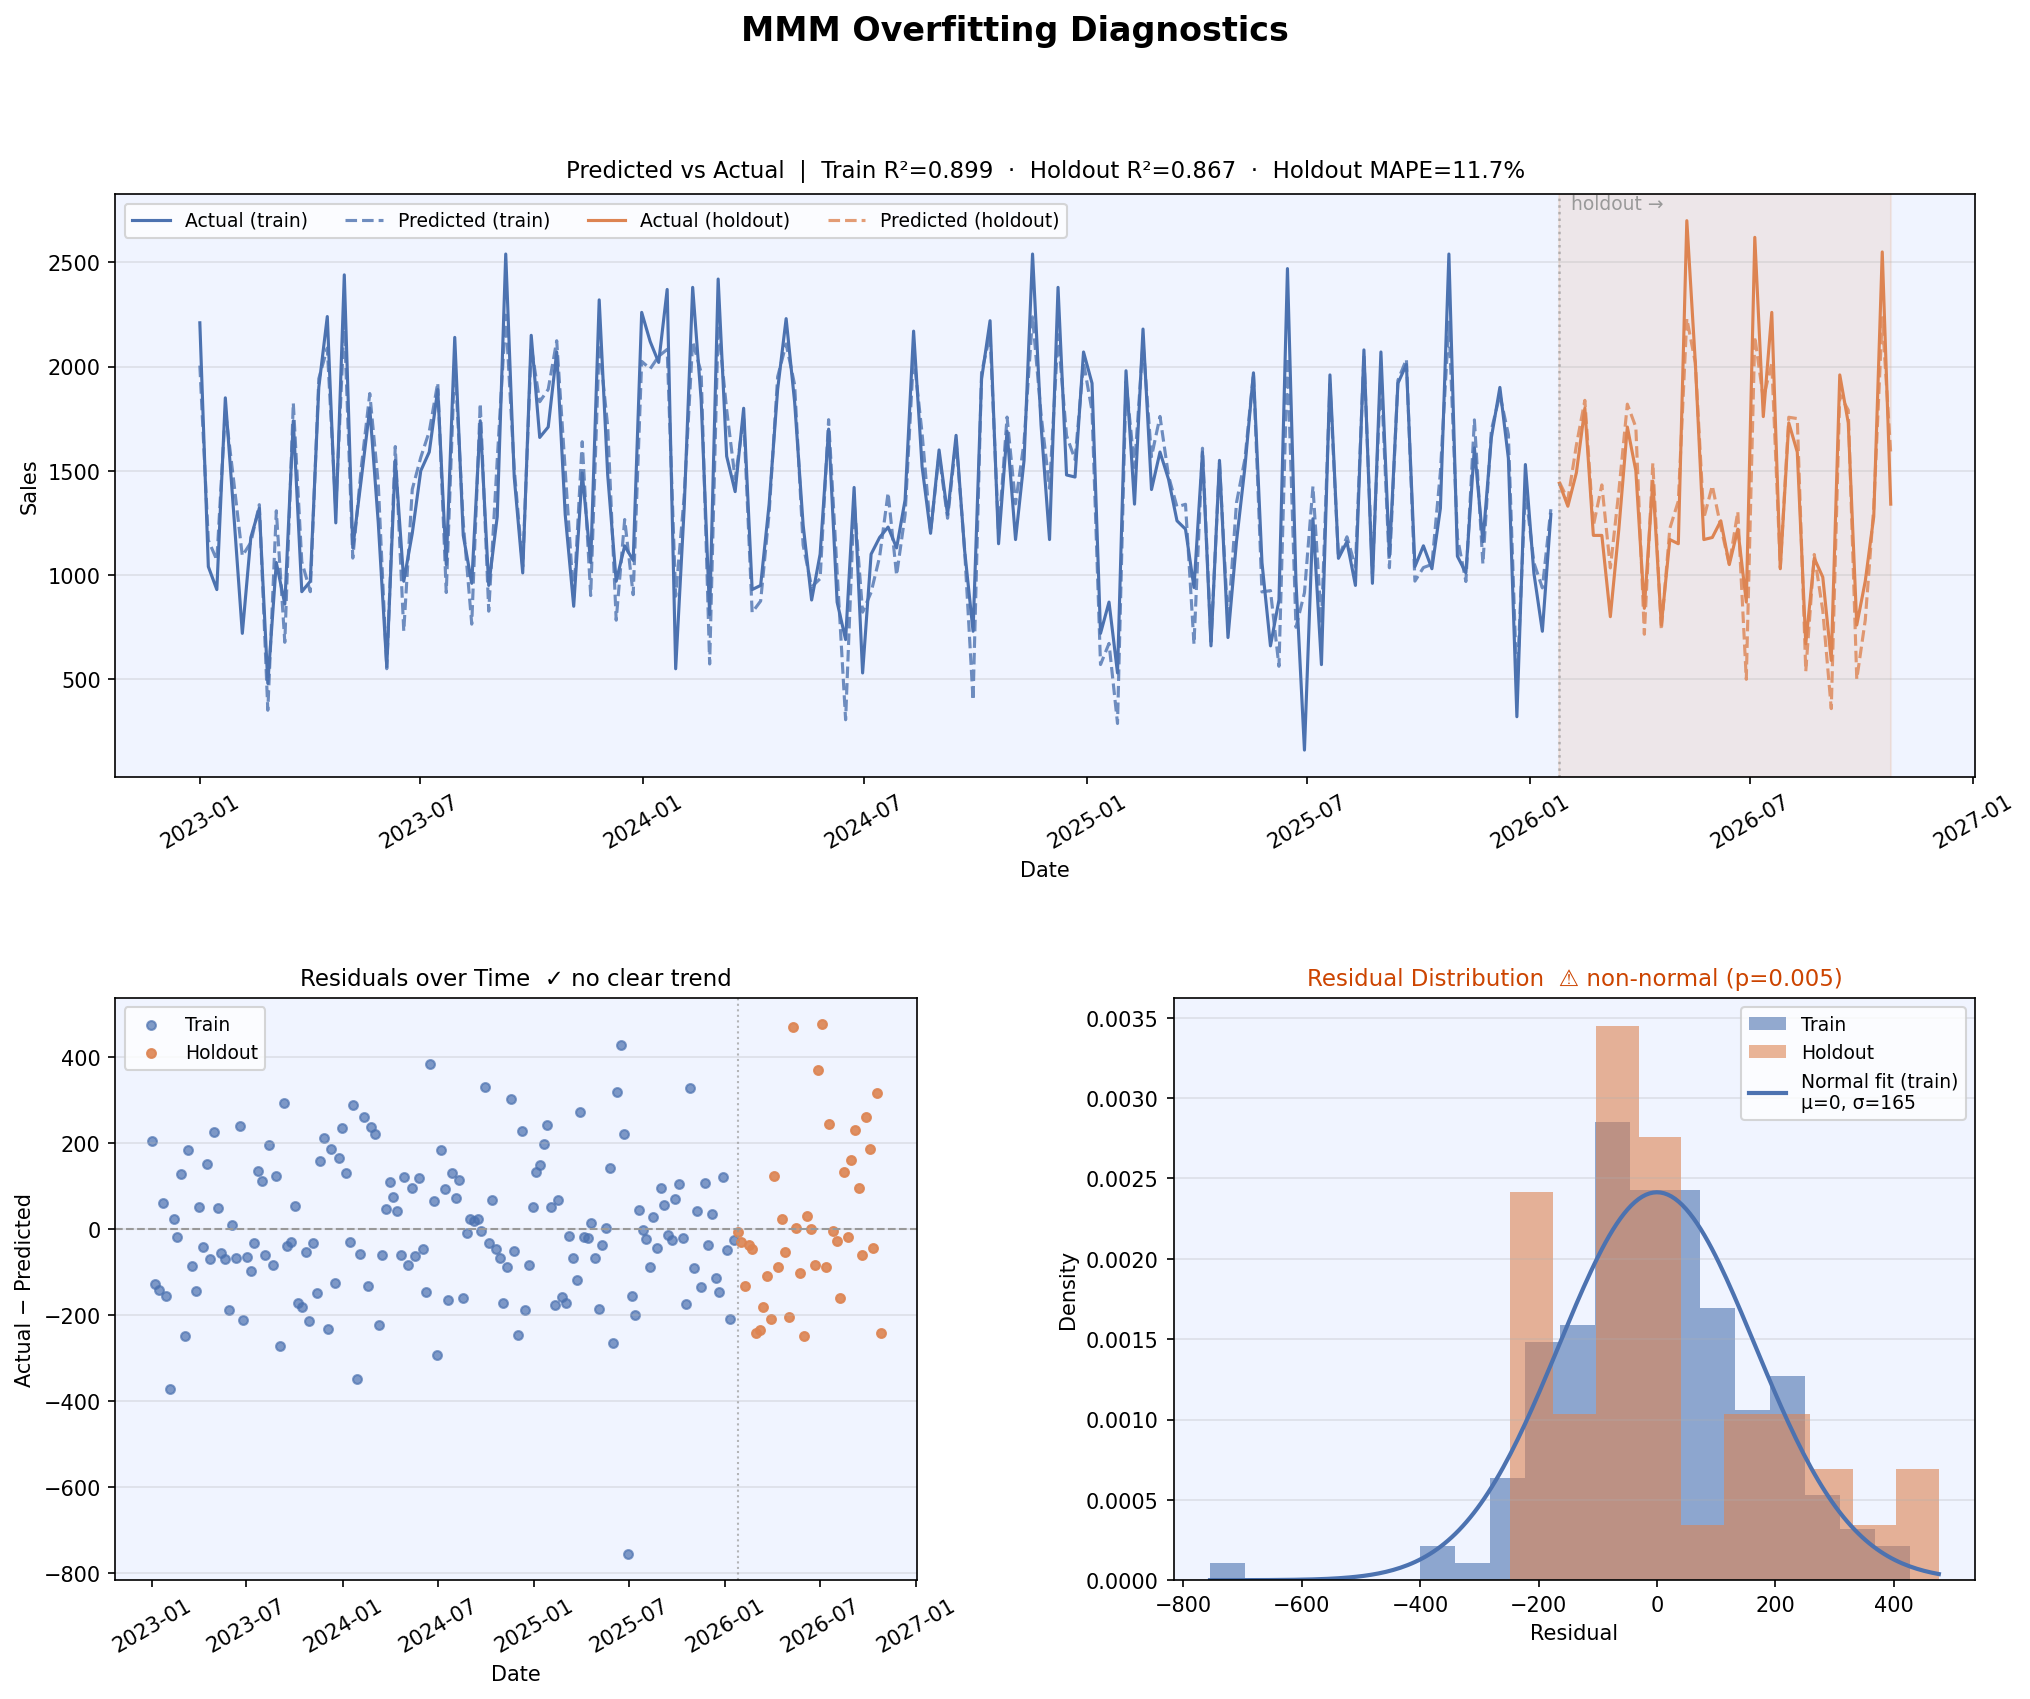
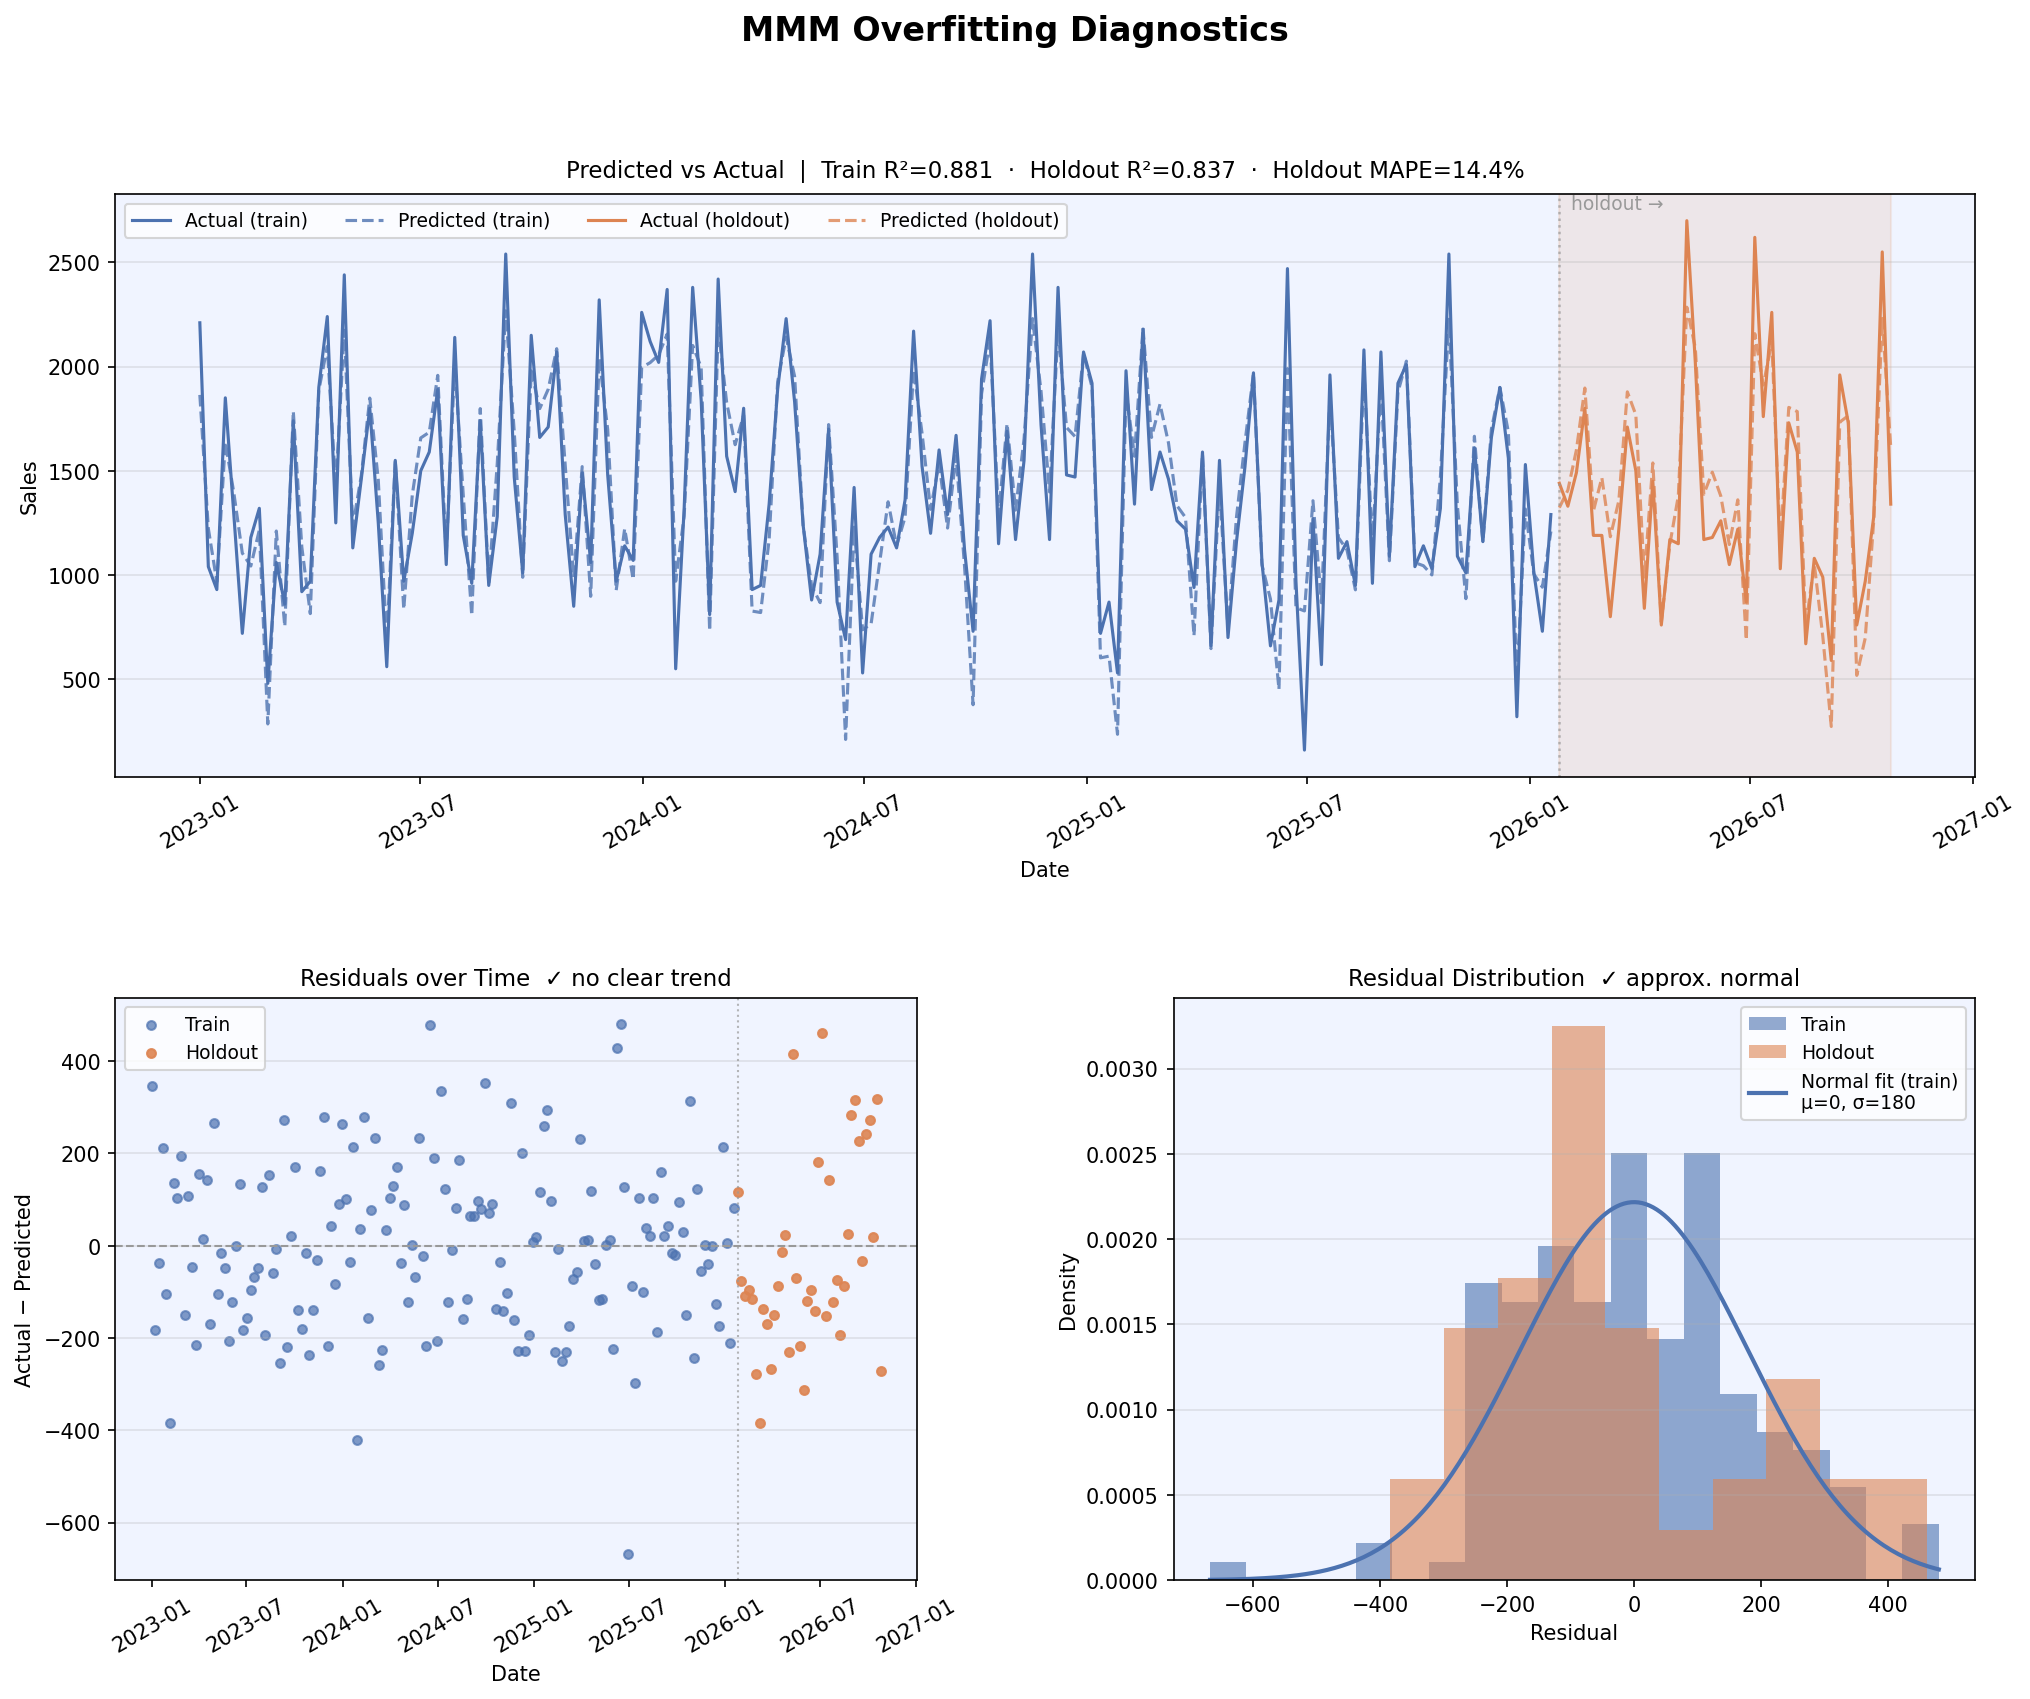
fix optimization from holdout to cross val

diff --git a/backend/model_test_jp/e_optimize.py b/backend/model_test_jp/e_optimize.py
@@ -10,6 +10,8 @@ from model_test_jp.d_model import build_mmm_model
 from model_test_jp.f_metrics import evaluate_holdout
 from model_test_jp.g_overfitting_checks import plot_overfitting_diagnostics, plot_learning_curve
 from model_test_jp.h_mmm_analysis import compute_raw_elasticities
+from sklearn.model_selection import TimeSeriesSplit
+
 
 # ============================================================================
 # DECAY RATE TUNING
@@ -45,19 +47,27 @@ def tune_decay_rates(
     adstocked_cols = [f"{col}_adstocked" for col in spend_cols]
     channel_names  = [col.replace('_spend', '') for col in spend_cols]
 
-    def objective(params: np.ndarray) -> float:
+
+    def objective(params):
         decay_params = dict(zip(channel_names, params))
+        tscv = TimeSeriesSplit(n_splits=5)
+        mapes = []
 
-        df_tr = apply_adstock(df_train_raw, spend_cols, decay_params)
-        df_te = apply_adstock(df_test_raw,  spend_cols, decay_params)
+        for train_idx, val_idx in tscv.split(df_train_raw):
+            fold_train = df_train_raw.iloc[train_idx]
+            fold_val   = df_train_raw.iloc[val_idx]
 
-        df_tr, saturated_cols, ref_maxes = apply_saturation(df_tr, adstocked_cols)
-        df_te, _,              _         = apply_saturation(df_te, adstocked_cols, ref_maxes=ref_maxes)
+            df_tr = apply_adstock(fold_train, spend_cols, decay_params)
+            df_vl = apply_adstock(fold_val,   spend_cols, decay_params)
 
-        results = build_mmm_model(df_tr, response_col, spend_cols, saturated_cols, seasonality_cols)
-        metrics = evaluate_holdout(results, df_te, saturated_cols, seasonality_cols, silent=True)
+            df_tr, saturated_cols, ref_maxes = apply_saturation(df_tr, adstocked_cols)
+            df_vl, _,              _         = apply_saturation(df_vl, adstocked_cols, ref_maxes=ref_maxes)
 
-        return metrics['mape']
+            results = build_mmm_model(df_tr, response_col, spend_cols, saturated_cols, seasonality_cols)
+            metrics = evaluate_holdout(results, df_vl, saturated_cols, seasonality_cols, silent=True)
+            mapes.append(metrics['mape'])
+
+        return np.mean(mapes)
 
     best_mape   = np.inf
     best_params = None
